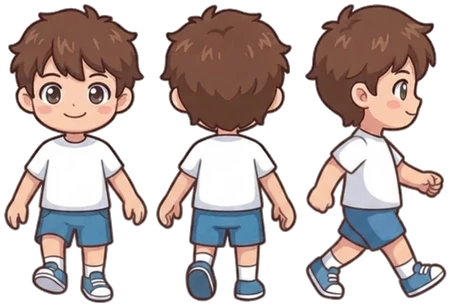
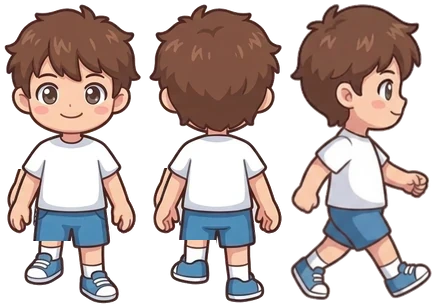
앞·뒤 걷는 자세를 안짱다리 없이: 서 있는 그림에서 한쪽 종아리만 살짝 들어 올려 만들기

diff --git a/js/data/character-sprites.js b/js/data/character-sprites.js
@@ -34,13 +34,13 @@ window.MP_CHAR_SPRITES = {
     "down": [
      4,
      4,
-     144,
-     299,
-     69.6,
-     299
+     137,
+     300,
+     67.1,
+     300
     ],
     "right": [
-     305,
+     290,
      4,
      142,
      296,
@@ -48,12 +48,12 @@ window.MP_CHAR_SPRITES = {
      296
     ],
     "up": [
-     156,
+     149,
      4,
-     141,
-     298,
-     69.9,
-     298
+     133,
+     299,
+     67.8,
+     299
     ]
    }
   }
@@ -93,12 +93,12 @@ window.MP_CHAR_SPRITES = {
      4,
      4,
      147,
-     299,
-     70.1,
-     299
+     300,
+     73.1,
+     300
     ],
     "right": [
-     320,
+     307,
      4,
      139,
      296,
@@ -108,9 +108,9 @@ window.MP_CHAR_SPRITES = {
     "up": [
      159,
      4,
-     153,
+     140,
      300,
-     74.7,
+     70.2,
      300
     ]
    }

diff --git a/tools/build_walk.py b/tools/build_walk.py
@@ -3,7 +3,7 @@
 
   python tools/build_walk.py
 
- - view: down(앞) up(뒤) side(옆, 왼쪽을 보게 그림 → 오른쪽을 보게 뒤집음)
+ - view: side(옆, 제미나이 원본. 왼쪽을 보게 그림 → 오른쪽을 보게 뒤집음). 앞·뒤(down·up)는 원본 없이 서 있는 그림에서 한쪽 종아리를 들어 올려 만듦(lift_leg)
  - 배경 지우기는 build_characters.py 와 같은 방법
  - 크기: 서 있는 그림(assets/characters/<id>.webp)과 머리 폭이 같게 맞춤
  - 원본은 서 있는 그림을 제미나이에 올려 "다리·팔만 걷는 자세로" 고쳐 받은 것(비율·색이 그대로)
@@ -32,6 +32,25 @@ def head_width(a):
     return max((np.ptp(np.where(r)[0]) + 1 if r.any() else 0) for r in rows)
 
 
+LEG_CUT = 0.79    # 이 높이(위에서부터 비율) 아래를 종아리·발로 봄
+LEG_LIFT = 0.06   # 들어 올리는 높이(키에 대한 비율)
+
+
+def lift_leg(stand, foot_x):
+    """그림 왼쪽 다리의 종아리·발을 위로 살짝 올린 '한 걸음' 그림. 올린 다리는 반바지·치마 밑으로 들어감."""
+    h, w = stand.shape[:2]
+    cut, lift = int(h * LEG_CUT), max(2, round(h * LEG_LIFT))
+    top = stand.copy(); top[cut:] = 0
+    low = stand.copy(); low[:cut - lift * 3] = 0
+    left = low.copy(); left[:, int(foot_x):] = 0
+    right = low.copy(); right[:, :int(foot_x)] = 0
+    left = np.roll(left, -lift, axis=0); left[-lift:] = 0
+    out = Image.new('RGBA', (w, h), (0, 0, 0, 0))
+    for part in (right, left, top):
+        out = Image.alpha_composite(out, Image.fromarray(part))
+    return out
+
+
 def match_color(src, ref):
     """불투명 부분의 채널별 평균·표준편차를 서 있는 그림에 맞춤(조금만: 70%)"""
     out = src.astype(float)
@@ -53,11 +72,18 @@ def main():
         sheet = np.array(Image.open(os.path.join(ROOT, meta[cid]['src'])).convert('RGBA'))
         ims, rects, x = [], {}, 0
         for src_view, view in VIEWS:
+            r = meta[cid]['views'][view]
+            stand = sheet[r[1]:r[1] + r[3], r[0]:r[0] + r[2]]
+            if view in ('down', 'up'):
+                # 앞·뒤: 서 있는 그림에서 한쪽 종아리만 살짝 들어 올려 만듦(제미나이 그림은 안짱다리가 됨)
+                im = lift_leg(stand, r[4])
+                ims.append((view, im))
+                rects[view] = [x + PAD, PAD, im.width, im.height, r[4], im.height]
+                x += im.width + PAD * 2
+                continue
             f = os.path.join(SRC, f'{cid}_{src_view}.png')
             if not os.path.exists(f):
                 continue
-            r = meta[cid]['views'][view]
-            stand = sheet[r[1]:r[1] + r[3], r[0]:r[0] + r[2]]
             rgba = crop_alpha(remove_bg(np.array(Image.open(f).convert('RGB')).astype(float)))
             if src_view == 'side':
                 rgba = rgba[:, ::-1]

diff --git a/README.md b/README.md
@@ -41,7 +41,7 @@
 - 저장: `makepark.save.v1`의 `character = { id, gender, owned }`, 티켓은 `tickets`.
 - 그림: 원본(`assets/characters-src/*.png`)에서 `python tools/build_characters.py`가 배경을 지우고 앞·뒤·옆 3칸으로 잘라 몸 키를 맞춥니다(모자 높이 보정 `HAT`, 왼쪽을 보는 옆모습은 `SIDE_FACES_LEFT`로 뒤집음). 왼쪽으로 걸을 때는 게임에서 옆모습을 뒤집어 그립니다.
 - 걷기: 걷기 칸 그림 없이 걸음마다 살짝 위아래로 움직이고, 옆모습은 가는 쪽으로 조금 숙여 걷습니다(`js/characters.js`의 `Walker.draw`). 지도 위 몸 키는 `DRAW_H`(50px).
-- 걷는 자세 그림: 기본 남녀(F1·F2)는 걷는 자세가 있어 [걷는 자세, 서 있기, 반대 발, 서 있기]로 걷습니다. 원본(`assets/characters-src/walk/<id>_<down|up|side>.png`)은 서 있는 그림을 제미나이에 올려 '다리·팔만 걷는 자세로' 고쳐 받은 것이고, `python tools/build_walk.py`로 `assets/characters/<id>-walk.webp`를 만듭니다. 앞·뒤 반대 발은 좌우로 뒤집어 씁니다.
+- 걷는 자세 그림: 기본 남녀(F1·F2)는 걷는 자세가 있어 [걷는 자세, 서 있기, 반대 발, 서 있기]로 걷습니다. 옆모습은 서 있는 그림을 제미나이에 올려 '다리·팔만 걷는 자세로' 고쳐 받은 원본(`assets/characters-src/walk/<id>_side.png`)을 쓰고, 앞·뒤는 서 있는 그림에서 한쪽 종아리를 살짝 들어 올려 만듭니다(제미나이 그림은 안짱다리처럼 나와서). `python tools/build_walk.py`로 `assets/characters/<id>-walk.webp`를 만들고, 앞·뒤 반대 발은 좌우로 뒤집어 씁니다.
 
 ## 좌표계
 모든 좌표는 시즌 지도 원본 픽셀(1448×1086, 왼쪽 위 0,0) 기준입니다. 배경, 캐릭터, 충돌 영역, 입구가 같은 변환 하나로 그려지므로 화면 크기가 바뀌어도 어긋나지 않습니다.
